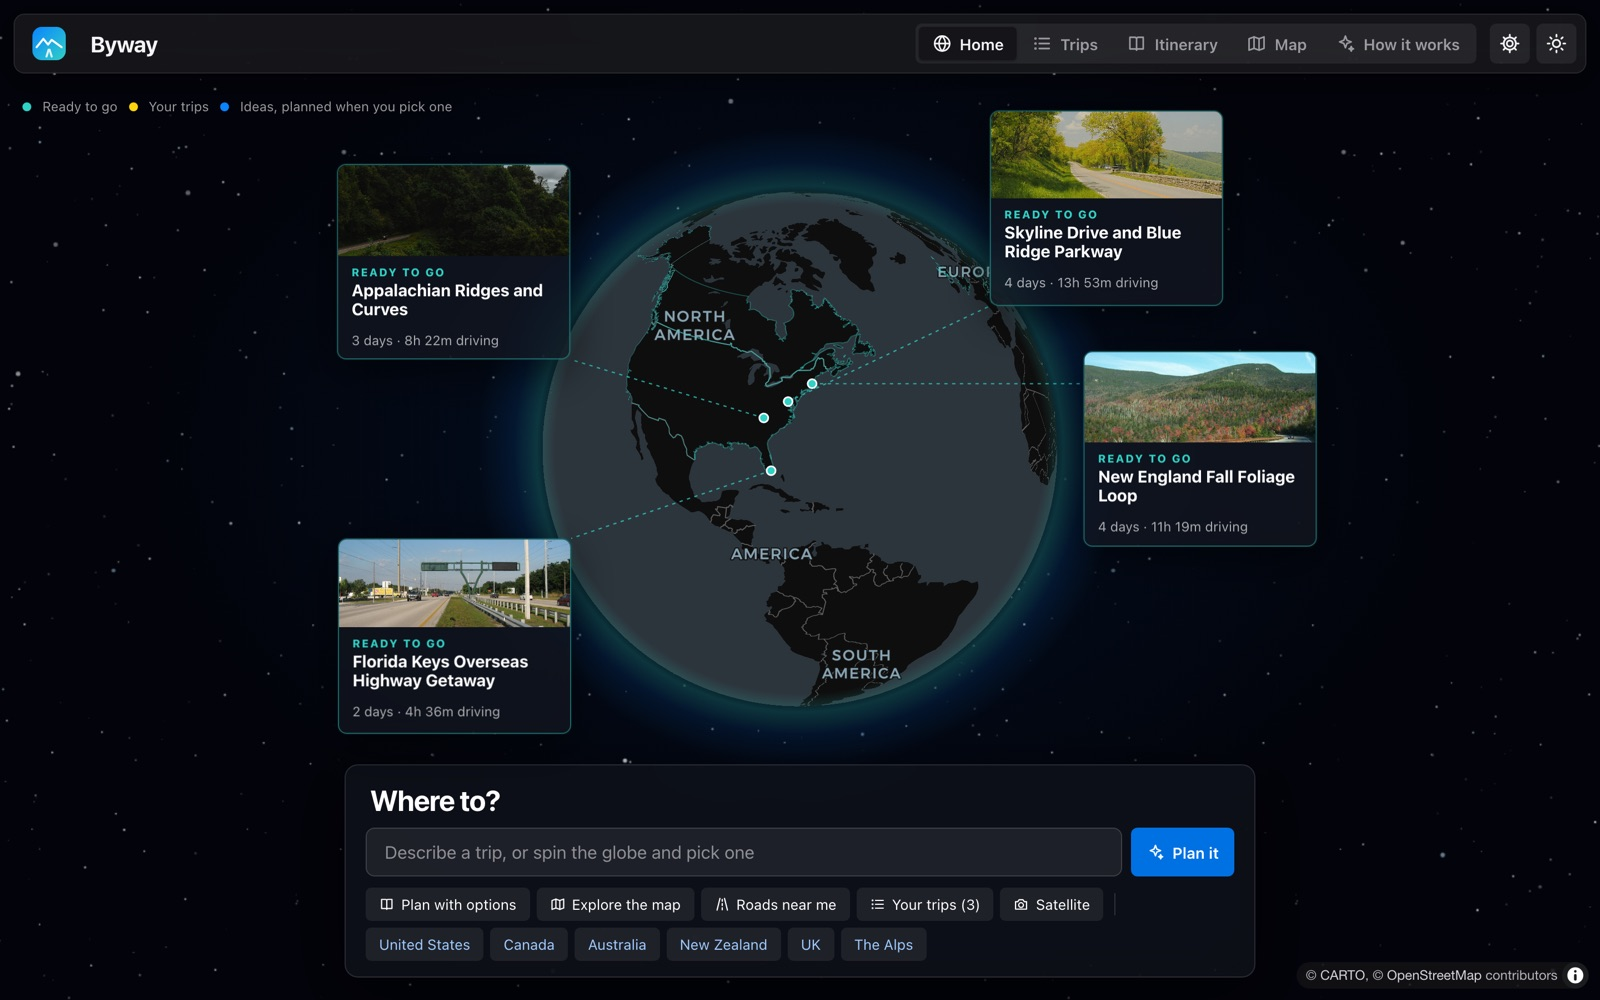
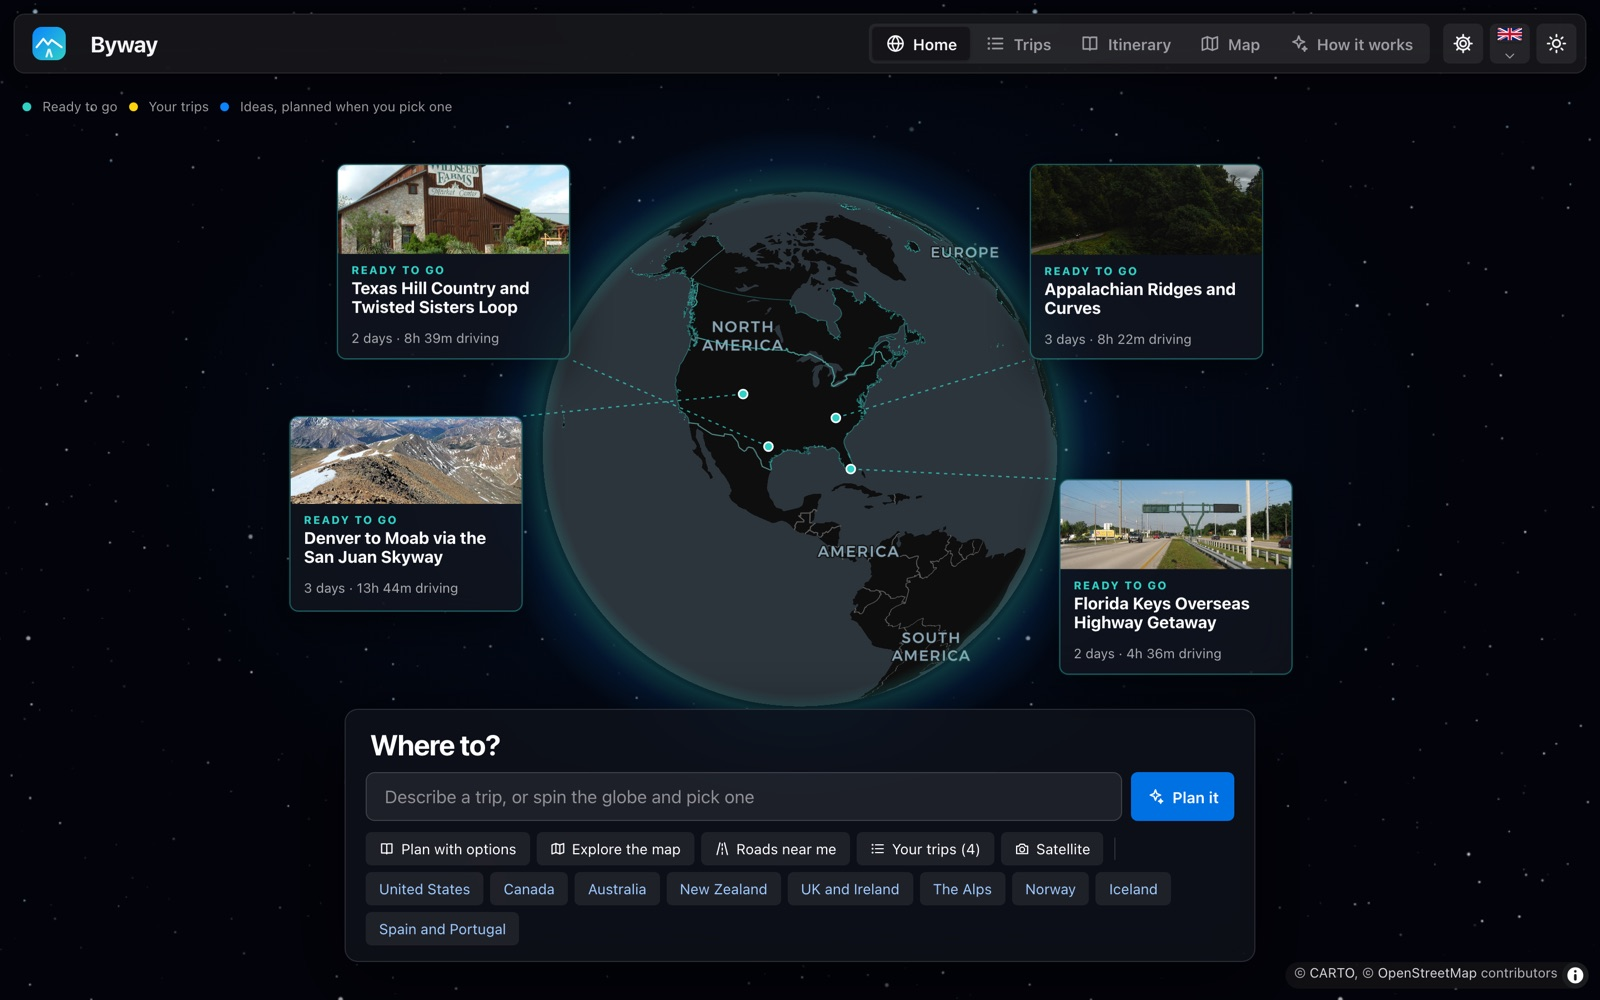
Phone top bar fits the language flag down to 360 px; README screenshots for 1.0
The smoke test now fails when a top bar button runs past the bar.

diff --git a/public/style.css b/public/style.css
@@ -1297,14 +1297,25 @@ button.spot-img { display: block; width: 100%; padding: 0; text-align: left; }
   .notes-grid, .versions { grid-template-columns: 1fr; }
   #map-profile { left: 16px; right: 16px; }
 }
+@media (max-width: 400px) {
+  /* 360 px phones: the logo, five views and four buttons in one row */
+  #topbar { gap: 6px !important; padding: 0 6px !important; }
+  .brand { width: 34px; height: 34px; }
+  .brand svg { width: 34px; height: 34px; }
+  .seg button { padding: 8px 6px !important; }
+}
 @media (max-width: 760px) {
   #topbar { top: 8px; left: 8px; right: 8px; height: 56px; gap: 8px; padding: 0 8px; }
   /* the logo stands in for the name: the view buttons need the room */
   .trip-title { display: none; }
   .seg { margin-right: auto; }
-  .seg button { padding: 8px 10px; }
+  .seg button { padding: 8px 8px; }
   .seg button span:not(.seg-ico) { display: none; }
-  .top-actions .icon-btn { width: 36px; height: 36px; }
+  /* four buttons on the right since the language flag: a little tighter so the bar fits 360 px */
+  .top-actions { gap: 4px; }
+  .top-actions .icon-btn { width: 34px; height: 34px; }
+  .icon-btn.lang-btn { width: 34px; padding: 0; justify-content: center; }
+  .lang-btn .ico { display: none; }
   #itinerary { padding-top: 74px; }
   .trip-hero { min-height: 340px; border-radius: 10px; }
   .hero-inner { padding: 22px 18px; }
